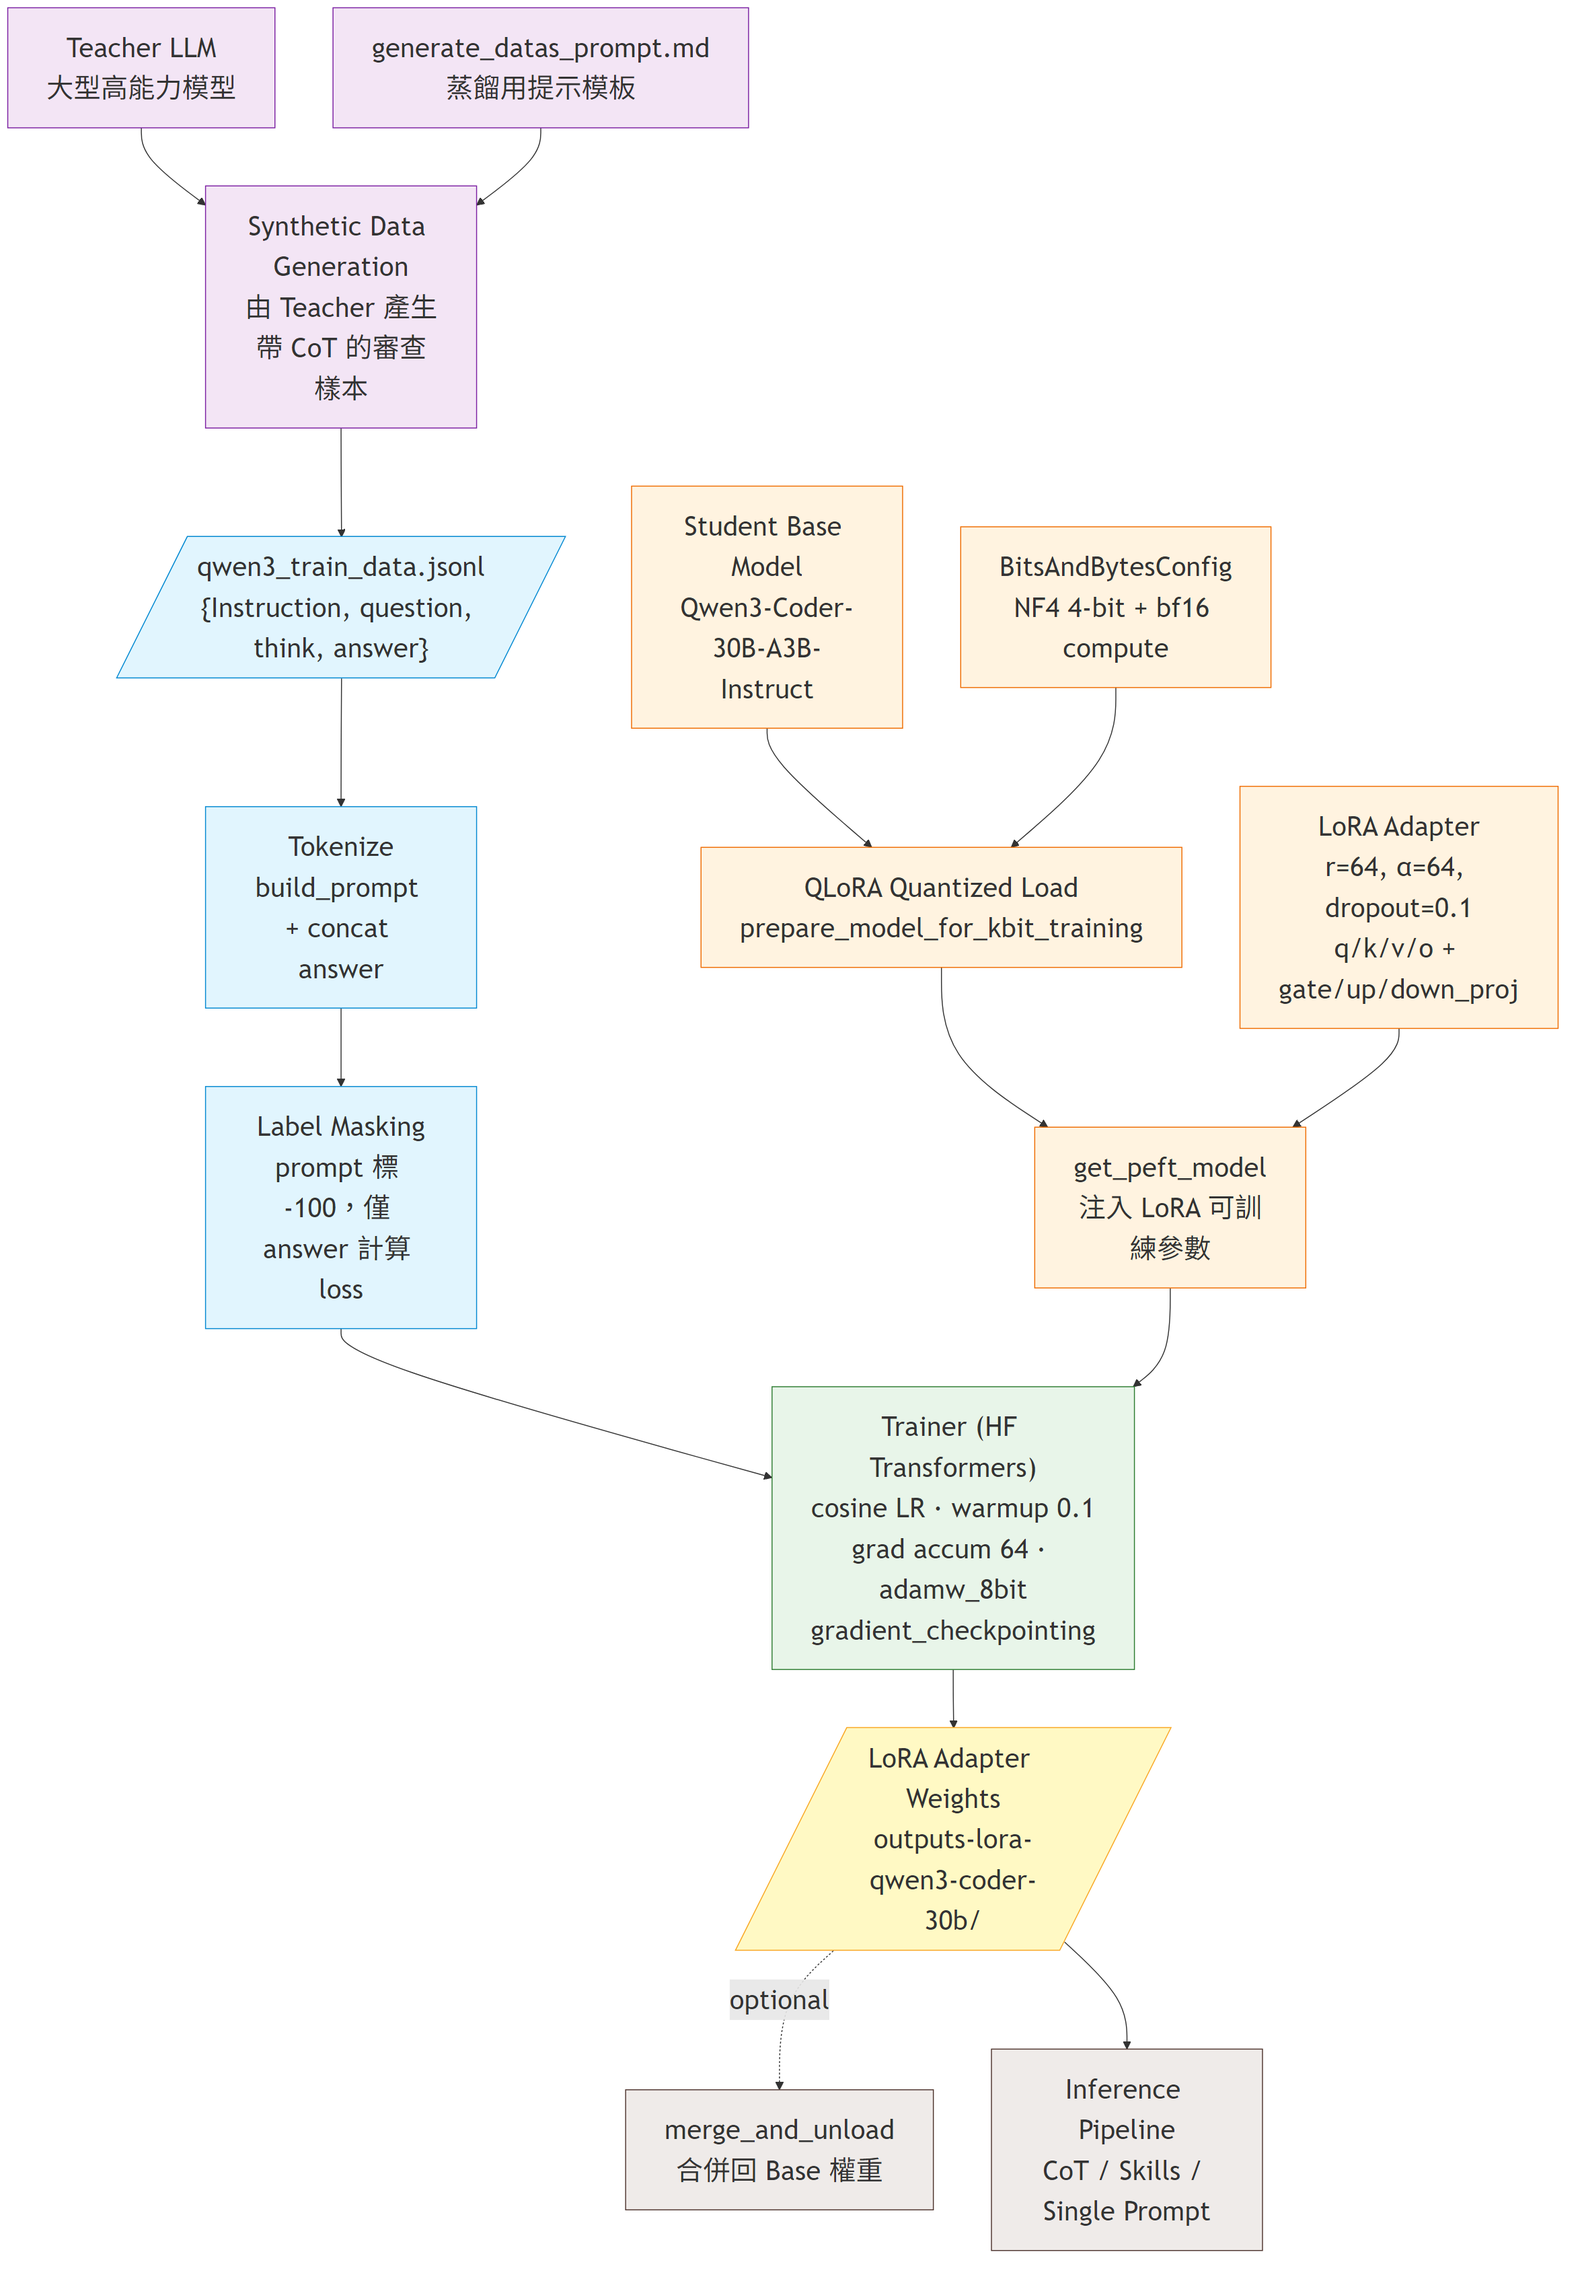
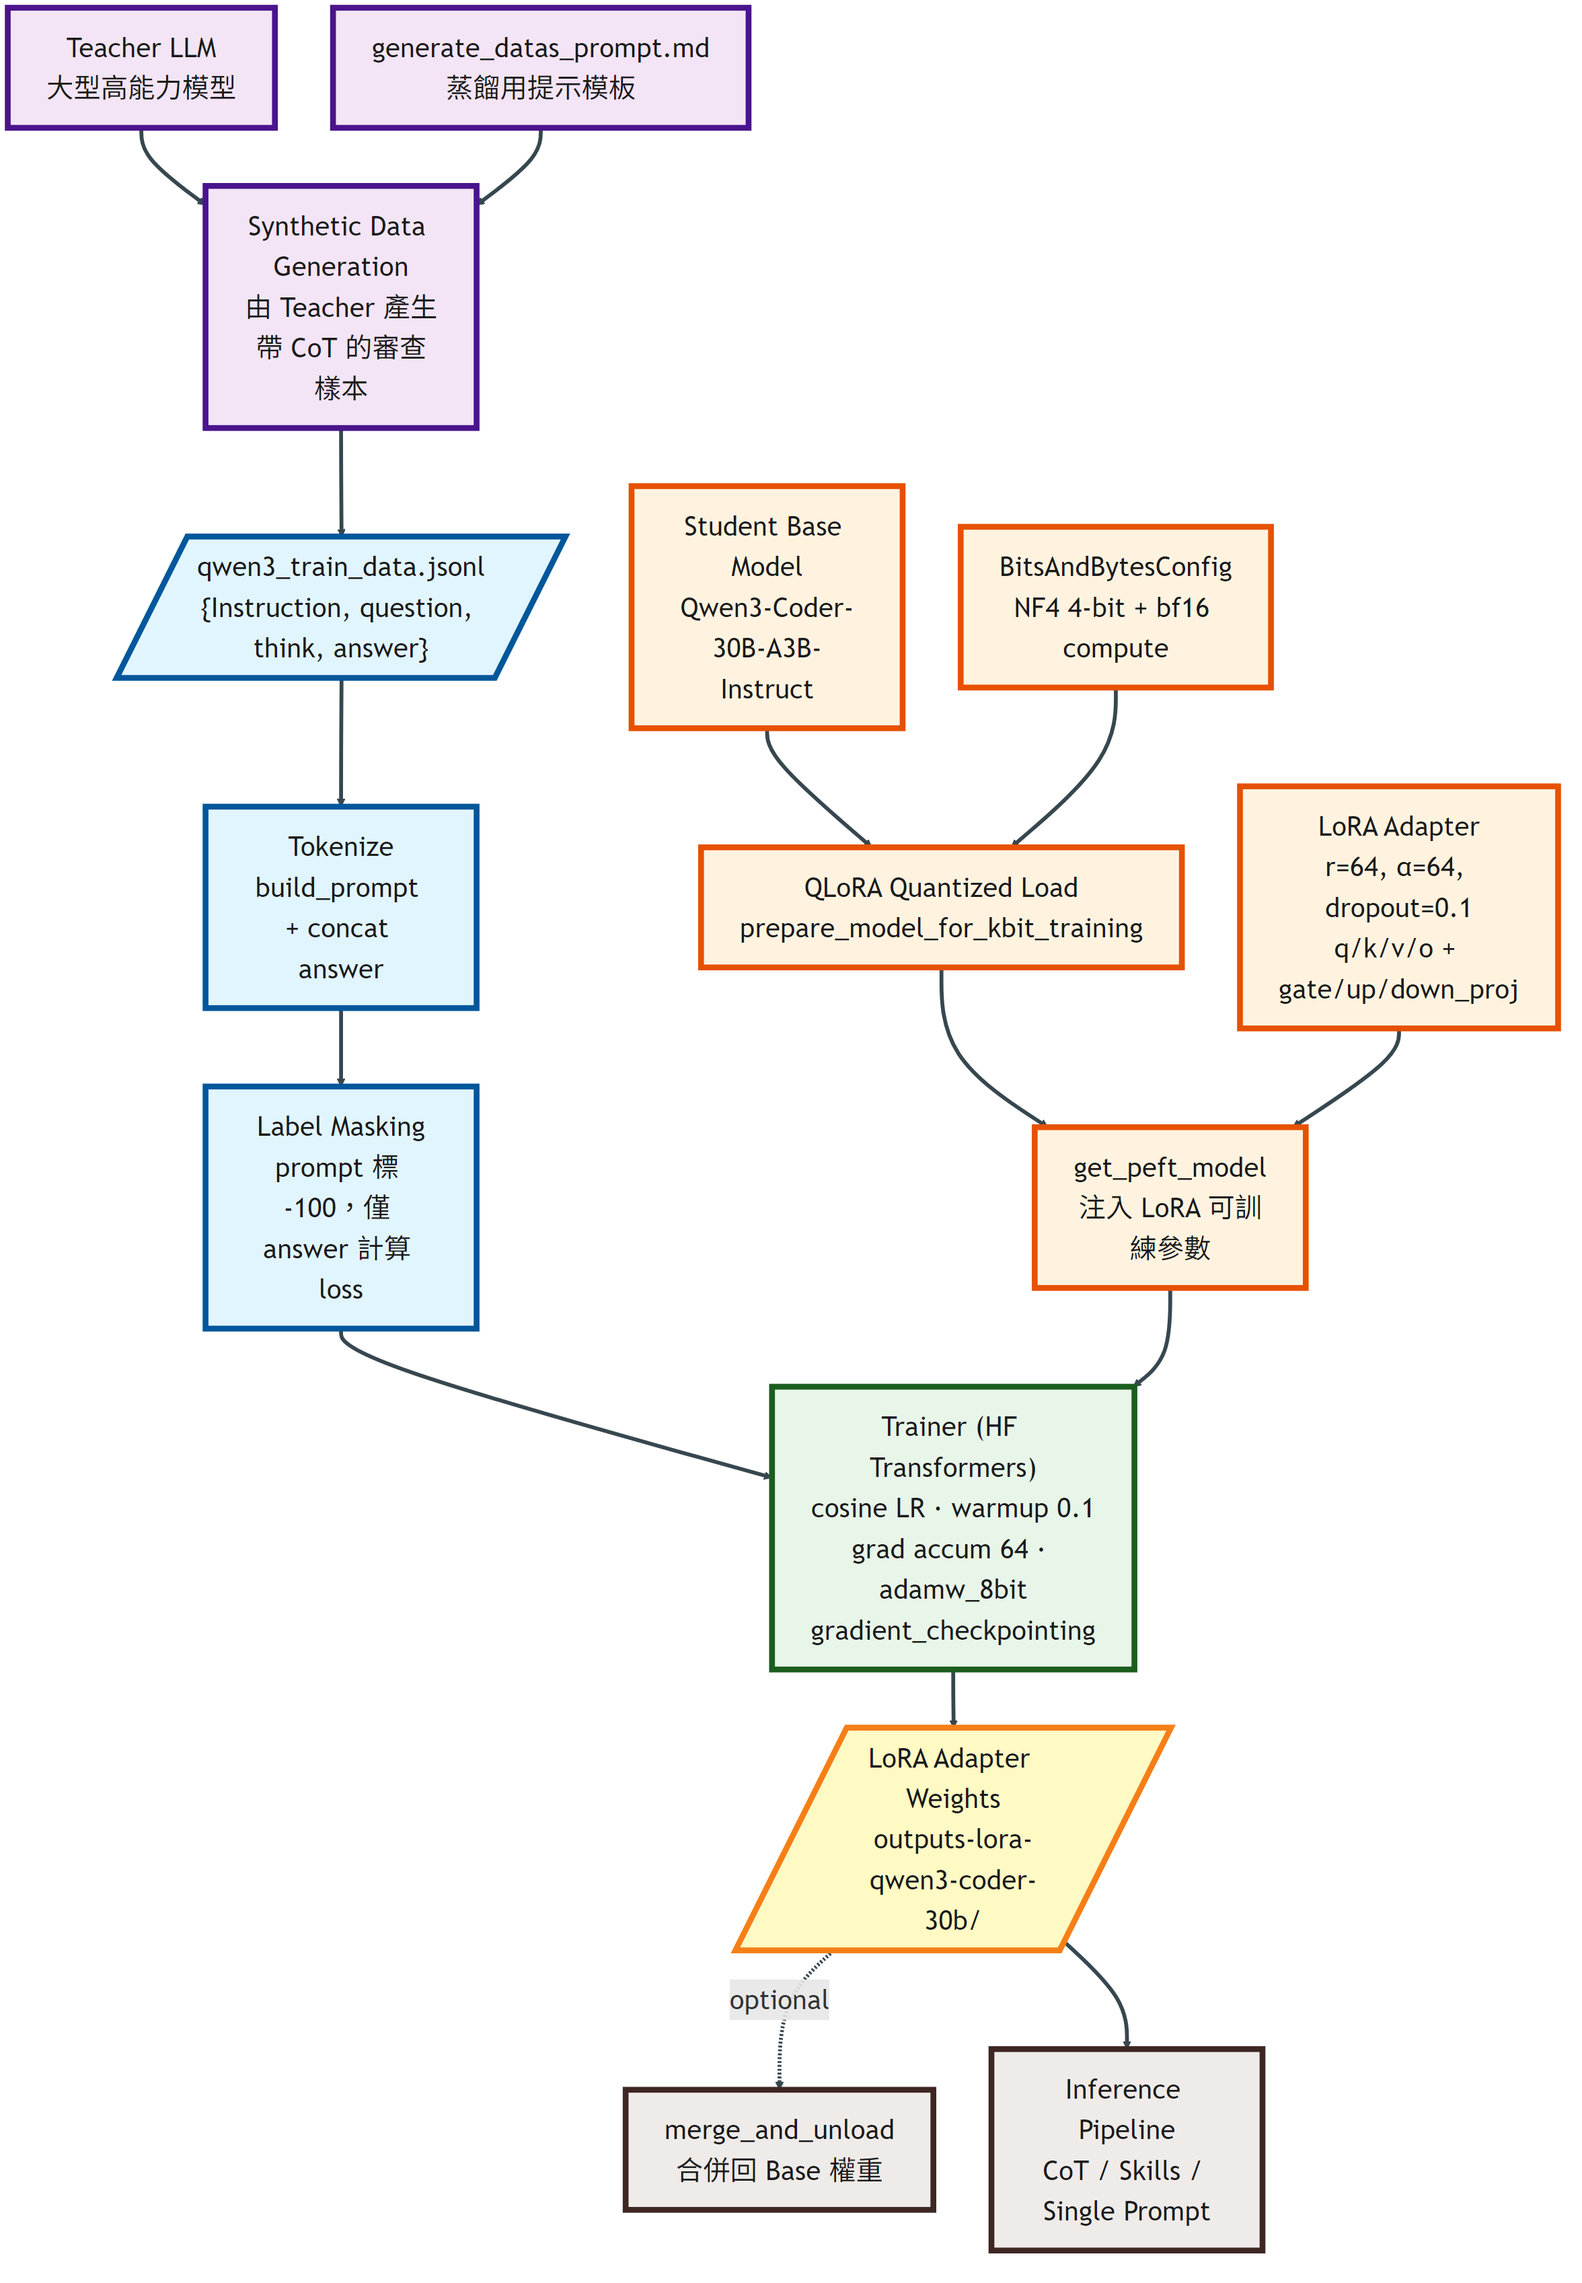
docs: Refresh architecture, results summary, and slide build notes
Align architecture.md and results_summary.txt with the v1.5 manuscript
numbers, document the paper/ slide build workflow in CLAUDE.md, and
exclude the paper/ working directory from version control.

diff --git a/architecture.md b/architecture.md
@@ -3,55 +3,69 @@
 ## System Overview
 
 ```mermaid
+%%{init: {'themeVariables': {'fontSize': '52px', 'fontFamily': 'Arial, "Microsoft JhengHei", sans-serif'}, 'flowchart': {'padding': 36, 'nodeSpacing': 100, 'rankSpacing': 120}}}%%
 graph TB
-    CODE["Source Code<br/>ChatGPT / Copilot Generated"]
-    DT["bad_data · code_diff · only_code"]
-    CODE --> DT
+    subgraph INPUT["① 輸入層 Input"]
+        CODE["Source Code<br/>ChatGPT / Copilot<br/>(bad_data · code_diff · only_code)"]
+    end
 
-    RAG_DATA["Rule Documents"] --> EMB["Qwen3-Embedding-4B"]
+    subgraph RAG["② 檢索層 RAG"]
+        RAG_DATA["Rule Documents"]
+        EMB["Qwen3-Embedding-4B"]
+        FAISS["FAISS Index<br/>(threshold ≥ 0.7)"]
+        RAG_DATA --> EMB --> FAISS
+    end
+
+    subgraph PIPE["③ 推論層 Pipelines + Model"]
+        COT["CoT Pipeline"]
+        SKILLS["Skills Pipeline"]
+        SINGLE["Single Prompt"]
+        QWEN["Qwen3-Coder-30B-A3B<br/>+ LoRA · 4-bit Quantization"]
+        COT --> QWEN
+        SKILLS --> QWEN
+        SINGLE --> QWEN
+    end
+
+    subgraph EVAL["④ 評估層 Evaluation"]
+        JUDGE["LLM-as-Judge<br/>5 Dimensions"]
+        CRSCORE["CRScore"]
+        HUMAN["Human Judge"]
+    end
+
     CODE --> EMB
-    EMB --> FAISS["FAISS Vector Index"]
-    FAISS -->|"threshold ≥ 0.7"| RULES["Retrieved Rules"]
+    CODE --> COT
+    CODE --> SKILLS
+    CODE --> SINGLE
+    FAISS -->|Retrieved Rules| COT
+    FAISS -->|Retrieved Rules| SKILLS
 
-    RULES --> GR["7 Review Standards<br/>+ RAG Rules Injection"]
+    QWEN --> JUDGE
+    QWEN --> CRSCORE
+    QWEN --> HUMAN
 
-    DT --> COT & SKILLS & SINGLE
-    GR --> COT & SKILLS
+    style INPUT fill:#e1f5fe,stroke:#01579b,stroke-width:6px,color:#1a1a1a
+    style RAG fill:#f3e5f5,stroke:#4a148c,stroke-width:6px,color:#1a1a1a
+    style PIPE fill:#fff3e0,stroke:#e65100,stroke-width:6px,color:#1a1a1a
+    style EVAL fill:#efebe9,stroke:#3e2723,stroke-width:6px,color:#1a1a1a
 
-    COT["CoT Pipeline<br/>Summary → Review → Linter → Smell → Total"]
-    SKILLS["Skills Pipeline<br/>Explainer + Review"]
-    SINGLE["Single Prompt Baseline"]
-
-    COT --> QWEN
-    SKILLS --> QWEN
-    SINGLE --> QWEN
-
-    LORA["LoRA Adapter"] --> QWEN["Qwen3-Coder-30B-A3B<br/>4-bit Quantization"]
-
-    QWEN -->|"Review Results"| JUDGE["LLM-as-Judge<br/>5 Dimensions Scoring"]
-    QWEN -->|"Review Results"| CRSCORE["CRScore Evaluation"]
-    QWEN -->|"Review Results"| HUMAN["Human Judge 人工評估"]
-
-    style CODE fill:#e1f5fe,stroke:#0288d1
-    style DT fill:#e1f5fe,stroke:#0288d1
-    style RAG_DATA fill:#f3e5f5,stroke:#7b1fa2
-    style EMB fill:#f3e5f5,stroke:#7b1fa2
-    style FAISS fill:#f3e5f5,stroke:#7b1fa2
-    style RULES fill:#f3e5f5,stroke:#7b1fa2
-    style GR fill:#f1f8e9,stroke:#558b2f
-    style COT fill:#e8f5e9,stroke:#2e7d32
-    style SKILLS fill:#fce4ec,stroke:#c62828
-    style SINGLE fill:#fff9c4,stroke:#f9a825
-    style LORA fill:#fff3e0,stroke:#ef6c00
-    style QWEN fill:#fff3e0,stroke:#ef6c00
-    style JUDGE fill:#efebe9,stroke:#4e342e
-    style CRSCORE fill:#efebe9,stroke:#4e342e
-    style HUMAN fill:#efebe9,stroke:#4e342e
+    style CODE fill:#ffffff,stroke:#01579b,stroke-width:5px,color:#1a1a1a
+    style RAG_DATA fill:#ffffff,stroke:#4a148c,stroke-width:5px,color:#1a1a1a
+    style EMB fill:#ffffff,stroke:#4a148c,stroke-width:5px,color:#1a1a1a
+    style FAISS fill:#ffffff,stroke:#4a148c,stroke-width:5px,color:#1a1a1a
+    style COT fill:#e8f5e9,stroke:#1b5e20,stroke-width:5px,color:#1a1a1a
+    style SKILLS fill:#fce4ec,stroke:#b71c1c,stroke-width:5px,color:#1a1a1a
+    style SINGLE fill:#fff9c4,stroke:#f57f17,stroke-width:5px,color:#1a1a1a
+    style QWEN fill:#ffffff,stroke:#e65100,stroke-width:5px,color:#1a1a1a
+    style JUDGE fill:#ffffff,stroke:#3e2723,stroke-width:5px,color:#1a1a1a
+    style CRSCORE fill:#ffffff,stroke:#3e2723,stroke-width:5px,color:#1a1a1a
+    style HUMAN fill:#ffffff,stroke:#3e2723,stroke-width:5px,color:#1a1a1a
+    linkStyle default stroke:#37474f,stroke-width:4px
 ```
 
 ## CoT Code Review Detailed Flow
 
 ```mermaid
+%%{init: {'themeVariables': {'fontSize': '52px', 'fontFamily': 'Arial, "Microsoft JhengHei", sans-serif'}, 'flowchart': {'padding': 36, 'nodeSpacing': 100, 'rankSpacing': 100}}}%%
 graph TB
     CODE[/"Source Code"/]
     CODE --> EMB["Query Embedding"]
@@ -76,14 +90,26 @@ graph TB
 
     JUDGE --> FINAL[/"Final Score & Recommendation"/]
 
-    style COT fill:#e8f5e9
-    style TS fill:#fff3e0
-    style JUDGE fill:#efebe9
+    style CODE fill:#e1f5fe,stroke:#01579b,stroke-width:6px,color:#1a1a1a
+    style EMB fill:#f3e5f5,stroke:#4a148c,stroke-width:6px,color:#1a1a1a
+    style FAISS fill:#f3e5f5,stroke:#4a148c,stroke-width:6px,color:#1a1a1a
+    style RULES fill:#f3e5f5,stroke:#4a148c,stroke-width:6px,color:#1a1a1a
+    style INJECT fill:#f1f8e9,stroke:#33691e,stroke-width:6px,color:#1a1a1a
+    style S1 fill:#e8f5e9,stroke:#1b5e20,stroke-width:6px,color:#1a1a1a
+    style S2 fill:#e8f5e9,stroke:#1b5e20,stroke-width:6px,color:#1a1a1a
+    style S3 fill:#e8f5e9,stroke:#1b5e20,stroke-width:6px,color:#1a1a1a
+    style S4 fill:#e8f5e9,stroke:#1b5e20,stroke-width:6px,color:#1a1a1a
+    style COT fill:#e8f5e9,stroke:#1b5e20,stroke-width:6px,color:#1a1a1a
+    style TS fill:#fff3e0,stroke:#e65100,stroke-width:6px,color:#1a1a1a
+    style JUDGE fill:#efebe9,stroke:#3e2723,stroke-width:6px,color:#1a1a1a
+    style FINAL fill:#fff9c4,stroke:#f57f17,stroke-width:6px,color:#1a1a1a
+    linkStyle default stroke:#37474f,stroke-width:4px
 ```
 
 ## Knowledge Distillation Training Flow
 
 ```mermaid
+%%{init: {'themeVariables': {'fontSize': '52px', 'fontFamily': 'Arial, "Microsoft JhengHei", sans-serif'}, 'flowchart': {'padding': 36, 'nodeSpacing': 100, 'rankSpacing': 100}}}%%
 graph TB
     TEACHER["Teacher LLM<br/>大型高能力模型"]
     GEN_PROMPT["generate_datas_prompt.md<br/>蒸餾用提示模板"]
@@ -115,21 +141,22 @@ graph TB
     ADAPTER -.optional.-> MERGE["merge_and_unload<br/>合併回 Base 權重"]
     ADAPTER --> SERVE["Inference Pipeline<br/>CoT / Skills / Single Prompt"]
 
-    style TEACHER fill:#f3e5f5,stroke:#7b1fa2
-    style GEN_PROMPT fill:#f3e5f5,stroke:#7b1fa2
-    style GEN fill:#f3e5f5,stroke:#7b1fa2
-    style JSONL fill:#e1f5fe,stroke:#0288d1
-    style TOK fill:#e1f5fe,stroke:#0288d1
-    style MASK fill:#e1f5fe,stroke:#0288d1
-    style BASE fill:#fff3e0,stroke:#ef6c00
-    style BNB fill:#fff3e0,stroke:#ef6c00
-    style QLORA fill:#fff3e0,stroke:#ef6c00
-    style LORA_CFG fill:#fff3e0,stroke:#ef6c00
-    style INJECT fill:#fff3e0,stroke:#ef6c00
-    style TRAIN fill:#e8f5e9,stroke:#2e7d32
-    style ADAPTER fill:#fff9c4,stroke:#f9a825
-    style MERGE fill:#efebe9,stroke:#4e342e
-    style SERVE fill:#efebe9,stroke:#4e342e
+    style TEACHER fill:#f3e5f5,stroke:#4a148c,stroke-width:6px,color:#1a1a1a
+    style GEN_PROMPT fill:#f3e5f5,stroke:#4a148c,stroke-width:6px,color:#1a1a1a
+    style GEN fill:#f3e5f5,stroke:#4a148c,stroke-width:6px,color:#1a1a1a
+    style JSONL fill:#e1f5fe,stroke:#01579b,stroke-width:6px,color:#1a1a1a
+    style TOK fill:#e1f5fe,stroke:#01579b,stroke-width:6px,color:#1a1a1a
+    style MASK fill:#e1f5fe,stroke:#01579b,stroke-width:6px,color:#1a1a1a
+    style BASE fill:#fff3e0,stroke:#e65100,stroke-width:6px,color:#1a1a1a
+    style BNB fill:#fff3e0,stroke:#e65100,stroke-width:6px,color:#1a1a1a
+    style QLORA fill:#fff3e0,stroke:#e65100,stroke-width:6px,color:#1a1a1a
+    style LORA_CFG fill:#fff3e0,stroke:#e65100,stroke-width:6px,color:#1a1a1a
+    style INJECT fill:#fff3e0,stroke:#e65100,stroke-width:6px,color:#1a1a1a
+    style TRAIN fill:#e8f5e9,stroke:#1b5e20,stroke-width:6px,color:#1a1a1a
+    style ADAPTER fill:#fff9c4,stroke:#f57f17,stroke-width:6px,color:#1a1a1a
+    style MERGE fill:#efebe9,stroke:#3e2723,stroke-width:6px,color:#1a1a1a
+    style SERVE fill:#efebe9,stroke:#3e2723,stroke-width:6px,color:#1a1a1a
+    linkStyle default stroke:#37474f,stroke-width:4px
 ```
 
 ## Project Directory Structure

diff --git a/CLAUDE.md b/CLAUDE.md
@@ -212,3 +212,38 @@ uvicorn codes.run.fastapi_server:app --reload
 # Build LLM Judge prompts
 python -m codes.run.build_our_llm_judge
 ```
+
+---
+
+## Defense Slides (paper/)
+
+The thesis defense deck is generated by a Node.js wrapper that emits an
+**editable** `slides.pptx` via `pptxgenjs`. Every text frame, table cell, and
+shape stays editable in PowerPoint / Keynote / LibreOffice Impress — do not
+replace this with a print-to-PDF or image-export path.
+
+### Source of truth
+
+- `paper/論文_v1.5.docx` — the manuscript. Re-extract numbers from here when
+  rebuilding slides; do not copy from older `slides.md` snapshots.
+- `output/*.png` — system / training / CoT flow diagrams referenced by the deck.
+
+### Build commands
+
+```bash
+cd paper
+npm install
+npm run build      # node build_slides.js → slides.pptx
+```
+
+### Rules
+
+- All slide content lives in `paper/build_slides.js`. Do not reintroduce a
+  Marp / `slides.md` pipeline — the deck must remain code-driven and editable.
+- Tables and bullet lists must be assembled with `addTable` / `addText` so
+  reviewers can edit individual cells. Do not rasterize tables as images.
+- Numbers (CRSCORE++, LLM Judge, human eval) must come from the v1.5 manuscript
+  tables; flag any drift before edits.
+- Figures are pulled from `../output/`; if a referenced PNG is missing the
+  builder shows a visible placeholder rather than failing silently.
+- `paper/node_modules/` is build output — keep it out of git.
